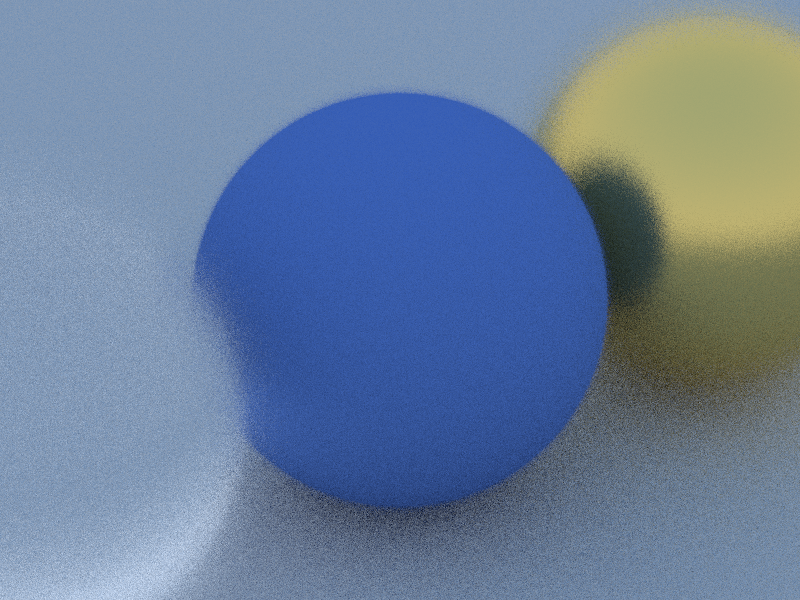
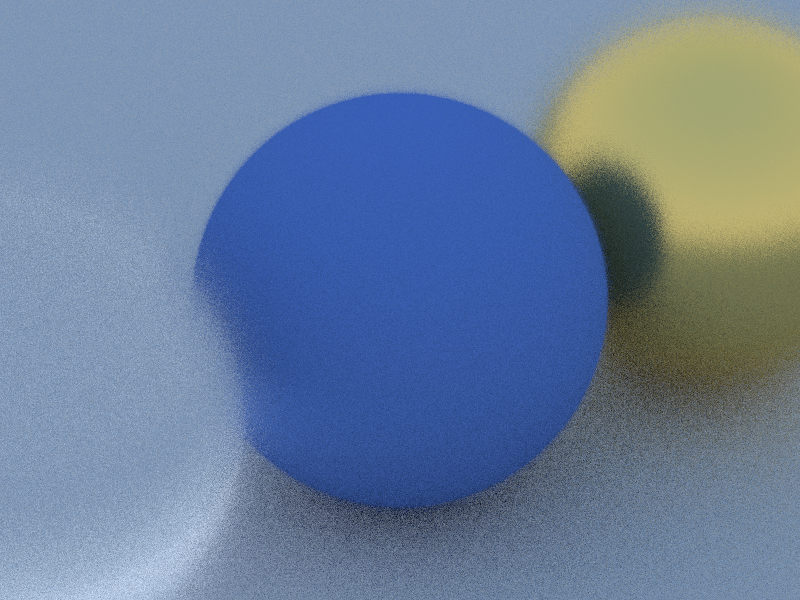
Added arc and Sync + Send Trait to the material and shape.

diff --git a/src/renderer.rs b/src/renderer.rs
@@ -6,6 +6,8 @@ use super::scene::Scene;
 extern crate rand;
 use rand::prelude::*;
 
+use std::sync::Arc;
+use std::sync::RwLock;
 use std::thread;
 use std::time::Instant;
 
@@ -19,11 +21,14 @@ const BYTES_PIXEL: usize = 3;
 //     chunk: &'a mut [u8],
 // }
 
-pub fn render_scene(scene: &Scene, canvas: &mut [u8]) -> Result<(), String> {
+pub fn render_scene<'a>(
+    scene: Arc<RwLock<Scene>>,
+    canvas: &'static mut [u8],
+) -> Result<(), String> {
     println!("Start rendering..");
     let now = Instant::now();
 
-    let threads = vec![];
+    let mut threads = vec![];
 
     // threads.push(thread::spawn(render_to_canvas
     //
@@ -34,24 +39,24 @@ pub fn render_scene(scene: &Scene, canvas: &mut [u8]) -> Result<(), String> {
     const NUM_CHUNKS: usize = 4;
     const CHUNK_SIZE_BYTES: usize = (TOTAL_PIXELS / NUM_CHUNKS) * BYTES_PIXEL;
     // Create list of chunks
-    let mut chunks = canvas.chunks_mut(CHUNK_SIZE_BYTES);
+    let chunks = canvas.chunks_mut(CHUNK_SIZE_BYTES);
 
     // Need to know the xy position in order to draw it
-    let (mut x, mut y): (usize, usize) = (0, 0);
     for (i, chunk) in chunks.enumerate() {
+        let arc_scene = scene.clone();
         let bytes_chunk = i * CHUNK_SIZE_BYTES;
-        x = bytes_chunk % (super::SCREEN_WIDTH * BYTES_PIXEL); // remainder
-        y = bytes_chunk / (super::SCREEN_WIDTH * BYTES_PIXEL);
+        let x = bytes_chunk % (super::SCREEN_WIDTH * BYTES_PIXEL); // remainder
+        let y = bytes_chunk / (super::SCREEN_WIDTH * BYTES_PIXEL);
         println!("Chunk[{}]: x:{}, y:{}", i, x, y);
-        threads.push(thread::spawn(|| render_to_canvas(scene, chunk, (x, y))));
+        threads.push(thread::spawn(move || {
+            render_to_canvas(&arc_scene, chunk, (x, y))
+        }));
     }
 
-    //render_to_canvas(&scene, x.)?;
-
-    // wait for everyone to finish
-    // for thread in threads {
-    //     let _ = thread.join();
-    // }
+    // wait for childeren to finish
+    for thread in threads {
+        let _ = thread.join().unwrap();
+    }
     println!(
         "Finished rendering: {} Milliseconds",
         now.elapsed().as_millis()
@@ -59,9 +64,9 @@ pub fn render_scene(scene: &Scene, canvas: &mut [u8]) -> Result<(), String> {
     Ok(())
 }
 
-fn render_to_canvas(
-    scene: &Scene,
-    canvas: &mut [u8],
+fn render_to_canvas<'a>(
+    scene: &Arc<RwLock<Scene>>,
+    canvas: &'a mut [u8],
     screen_coords: (usize, usize),
 ) -> Result<(), String> {
     let mut rng = rand::thread_rng();
@@ -71,13 +76,14 @@ fn render_to_canvas(
 
     for pixel in (0..canvas.len()).step_by(BYTES_PIXEL) {
         let mut pixel_color = Vec3::zero();
-
         for n_rp in 0..RAYS_PER_PIXEL {
             let rand_coord: (f64, f64) = rng.gen();
             let mut r = scene
+                .read()
+                .unwrap()
                 .camera
                 .generate_ray(x as f64 + rand_coord.0, y as f64 + rand_coord.1);
-            pixel_color += raytrace(&scene, &mut r, 0);
+            pixel_color += raytrace(scene, &mut r, 0);
         }
         let (r, g, b) = to_color(pixel_color, RAYS_PER_PIXEL);
 
@@ -119,13 +125,13 @@ fn render_to_canvas(
     Ok(())
 }*/
 
-fn raytrace(scene: &Scene, ray: &mut Ray, depth: u16) -> Vec3 {
+fn raytrace(scene: &Arc<RwLock<Scene>>, ray: &mut Ray, depth: u16) -> Vec3 {
     if depth >= MAX_RAY_DEPTH {
         return Vec3(0.0, 0.0, 0.0);
     }
 
     // TODO: BVH for intersecting?
-    for it in scene.objects.iter() {
+    for it in scene.read().unwrap().objects.iter() {
         it.intersect(ray, 0.001);
     }
 
@@ -151,6 +157,7 @@ fn to_color(vec: Vec3, samples: u16) -> (u8, u8, u8) {
     let _g = (scale * vec.1).sqrt();
     let _b = (scale * vec.2).sqrt();
 
+    let _r = f64::clamp(_r, 0.0, 0.9999) * 256.0;
     let _r = math::clamp(_r, 0.0, 0.9999) * 256.0;
     let _g = math::clamp(_g, 0.0, 0.9999) * 256.0;
     let _b = math::clamp(_b, 0.0, 0.9999) * 256.0;

diff --git a/src/main.rs b/src/main.rs
@@ -16,6 +16,7 @@ use math::vector::Vec3;
 use std::fs::File;
 use std::io::BufWriter;
 use std::path::Path;
+use std::sync::{Arc, RwLock};
 
 extern crate libc;
 extern crate png;
@@ -25,7 +26,9 @@ pub const SCREEN_HEIGHT: usize = 600;
 
 #[allow(dead_code)]
 fn main() -> Result<(), std::io::Error> {
-    let scene = scene::create_scene();
+    //let scene = scene::create_scene();
+    // Scene is just a read only data object.
+    let scene = Arc::new(RwLock::new(scene::create_scene()));
 
     // Create or overwrite file.
     let path = Path::new(r"other\images\progress.png");
@@ -50,7 +53,7 @@ fn main() -> Result<(), std::io::Error> {
         v.into_boxed_slice()
     };
 
-    renderer::render_scene(&scene, &mut image).unwrap();
+    renderer::render_scene(scene, &mut image).unwrap();
 
     writer.write_image_data(&image).unwrap();
     println!("New image created: {}", path.display());

diff --git a/src/shape.rs b/src/shape.rs
@@ -5,7 +5,7 @@ use super::Vec3;
 use std::f64;
 use std::sync::Arc;
 
-pub trait Shape {
+pub trait Shape: Sync + Send {
     fn intersect(&self, ray: &mut Ray, tolerance: f64);
 
     // Default impl

diff --git a/src/scene.rs b/src/scene.rs
@@ -13,8 +13,8 @@ pub struct Scene {
     pub camera: Camera,
 }
 
-extern crate rand;
-use rand::Rng;
+//extern crate rand;
+//use rand::Rng;
 
 // Create the scene.
 pub fn create_scene() -> Scene {

diff --git a/src/material/material.rs b/src/material/material.rs
@@ -1,6 +1,6 @@
 use crate::ray::Ray;
 use crate::Vec3;
 
-pub trait Material {
+pub trait Material: Sync + Send {
     fn scatter(&self, ray_in: &Ray) -> Option<(Vec3, Ray)>;
 }
